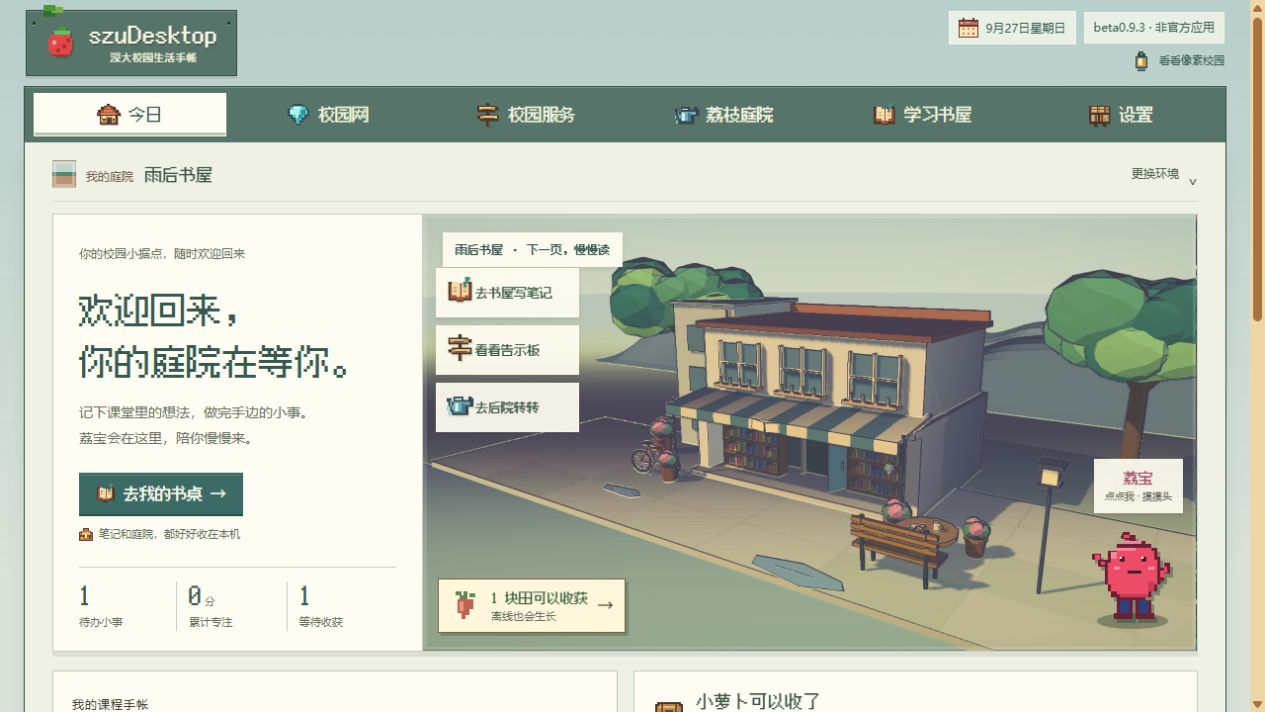
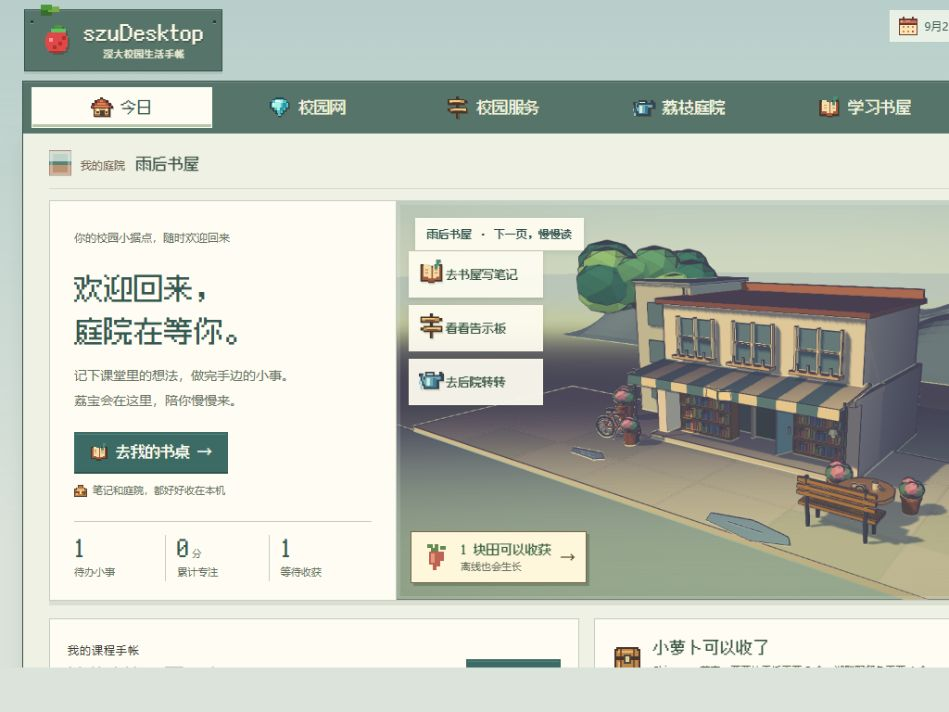
Refine welcome heading at installed window widths and refresh candidates

diff --git a/desktop/assets/garden/campus-world.css b/desktop/assets/garden/campus-world.css
@@ -219,7 +219,7 @@ body[data-page=home] .home-skin-picker { margin-bottom:12px; }
 body[data-page=home][data-home-skin] .campus-home { display:grid; grid-template-columns:minmax(285px,.86fr) minmax(0,1.8fr); min-height:410px; border-color:var(--world-line); box-shadow:0 5px 0 var(--world-shadow); }
 body[data-home-skin] .campus-home .home-letter { grid-column:1; grid-row:1; display:flex; flex-direction:column; align-items:flex-start; padding:29px 26px 20px; background:var(--world-paper); border-right:1px solid var(--world-line); }
 body[data-home-skin] .campus-home .home-letter .eyebrow { font:12px/1.8 var(--body); color:var(--world-muted); margin:0 0 20px; }
-body[data-home-skin] .campus-home .home-letter h1 { font:36px/1.42 var(--pixel); color:var(--world-ink); letter-spacing:.01em; margin:0 0 14px; }
+body[data-home-skin] .campus-home .home-letter h1 { font:32px/1.42 var(--pixel); color:var(--world-ink); letter-spacing:.01em; margin:0 0 14px; }
 body[data-home-skin] .campus-home .home-letter h1 br { display:initial; }
 body[data-home-skin] .campus-home .home-description { font:14px/1.9 var(--body); color:var(--world-muted); margin:0 0 21px; }
 body[data-home-skin] .campus-home .home-description br { display:initial; }

diff --git a/docs/README_en.md b/docs/README_en.md
@@ -27,7 +27,7 @@ Unofficial · Built by a student · Not affiliated with Shenzhen University
 
 ## Source preview: preparing for beta0.9.3
 
-**These changes are not publicly released; the download above remains beta0.9.2.** [PR #20](https://github.com/SzuDesktopTeam/szudesktop/pull/20) has merged, delivering **course notes, Feishu course-document integration and a courtyard environment across the application**. The current beta0.9.3 source further refines home, notes and campus entry points; progress and verification are recorded in [STATUS section 64](STATUS.md#64-日常入口与书屋精修2026-09-27源码未发布). Frontend and Electron checks and the specified UI paths have passed; the final candidates have been rebuilt and checked, and the packaged program has passed actual startup and normal shutdown. Remote checks and merge history accompany this change's PR. The section 63 candidate predates these changes, and no new release tag is being published.
+**These changes are not publicly released; the download above remains beta0.9.2.** [PR #20](https://github.com/SzuDesktopTeam/szudesktop/pull/20) has merged, delivering **course notes, Feishu course-document integration and a courtyard environment across the application**. [PR #21](https://github.com/SzuDesktopTeam/szudesktop/pull/21) further refines the beta0.9.3 home, notes and campus entry points; progress and verification are recorded in [STATUS section 64](STATUS.md#64-日常入口与书屋精修2026-09-27源码未发布). Frontend and Electron checks and the specified UI paths have passed; the final candidates have been rebuilt and checked, and the packaged program has passed actual startup and normal shutdown. Remote checks and merge history accompany this change's PR. The section 63 candidate predates these changes, and no new release tag is being published.
 
 ### Pick up where you left off
 

diff --git a/README.md b/README.md
@@ -27,7 +27,7 @@
 
 ## 源码预览：为 beta0.9.3 准备
 
-**以下改动尚未公开发布，上方下载仍是 beta0.9.2。** [PR #20](https://github.com/SzuDesktopTeam/szudesktop/pull/20) 已合并，交付了**课程笔记、飞书课程文档接入和贯穿全应用的庭院环境**。当前 beta0.9.3 源码继续打磨首页、笔记和校园工具入口，进展与验收集中在 [STATUS 第 64 节](docs/STATUS.md#64-日常入口与书屋精修2026-09-27源码未发布)。本轮前端及 Electron 检查、指定 UI 路径已通过，最终候选包已重建并核对，打包程序实际启动与正常退出通过；远端检查与合并记录随本轮 PR 提供。第 63 节候选包不包含这次修改，不发布新标签。
+**以下改动尚未公开发布，上方下载仍是 beta0.9.2。** [PR #20](https://github.com/SzuDesktopTeam/szudesktop/pull/20) 已合并，交付了**课程笔记、飞书课程文档接入和贯穿全应用的庭院环境**。本轮 [PR #21](https://github.com/SzuDesktopTeam/szudesktop/pull/21) 继续打磨 beta0.9.3 的首页、笔记和校园工具入口，进展与验收集中在 [STATUS 第 64 节](docs/STATUS.md#64-日常入口与书屋精修2026-09-27源码未发布)。本轮前端及 Electron 检查、指定 UI 路径已通过，最终候选包已重建并核对，打包程序实际启动与正常退出通过；远端检查与合并记录随本轮 PR 提供。第 63 节候选包不包含这次修改，不发布新标签。
 
 ### 打开后，知道今天从哪儿继续
 
